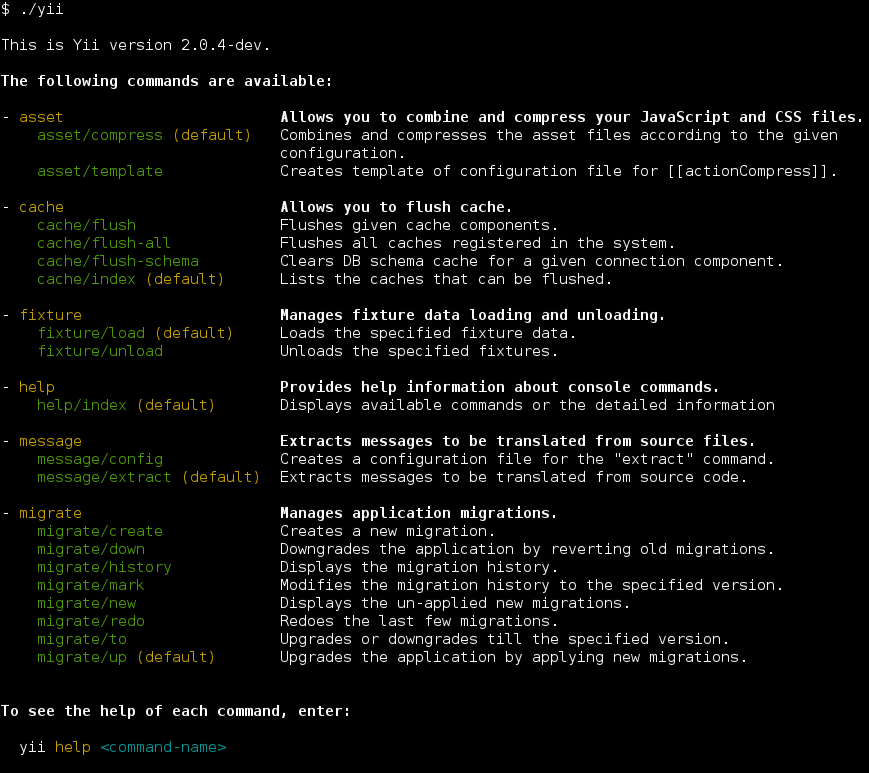
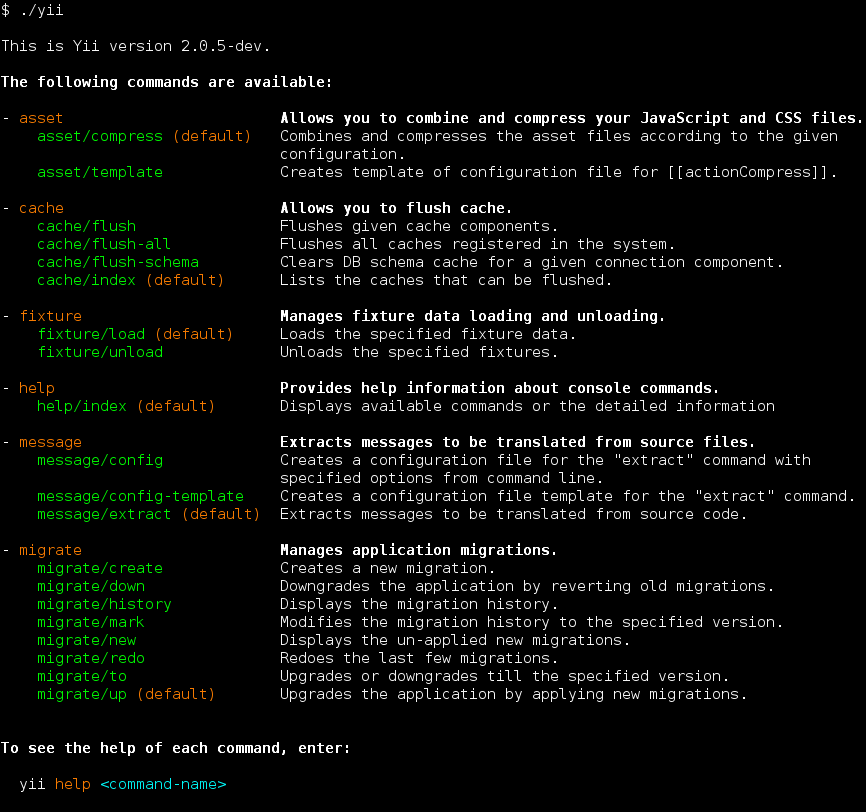
Fixes #8329: Added support of options for `message` console command

diff --git a/framework/views/messageConfig.php b/framework/views/messageConfig.php
@@ -16,8 +16,11 @@ return [
     // messages will be separated from the old (translated) ones.
     'sort' => false,
     // boolean, whether to remove messages that no longer appear in the source code.
-    // Defaults to false, which means each of these messages will be enclosed with a pair of '@@' marks.
+    // Defaults to false, which means these messages will NOT be removed.
     'removeUnused' => false,
+    // boolean, whether to mark messages that no longer appear in the source code.
+    // Defaults to true, which means each of these messages will be enclosed with a pair of '@@' marks.
+    'markUnused' => true,
     // array, list of patterns that specify which files (not directories) should be processed.
     // If empty or not set, all files will be processed.
     // Please refer to "except" for details about the patterns.

diff --git a/framework/messages/config.php b/framework/messages/config.php
@@ -22,6 +22,9 @@ return [
     // boolean, whether to remove messages that no longer appear in the source code.
     // Defaults to false, which means each of these messages will be enclosed with a pair of '@@' marks.
     'removeUnused' => false,
+    // boolean, whether to mark messages that no longer appear in the source code.
+    // Defaults to true, which means each of these messages will be enclosed with a pair of '@@' marks.
+    'markUnused' => true,
     // array, list of patterns that specify which files/directories should NOT be processed.
     // If empty or not set, all files/directories will be processed.
     // A path matches a pattern if it contains the pattern string at its end. For example,

diff --git a/docs/guide/tutorial-i18n.md b/docs/guide/tutorial-i18n.md
@@ -633,10 +633,10 @@ If [[yii\i18n\MissingTranslationEvent::translatedMessage]] is set by the event h
 
 Translations can be stored in [[yii\i18n\PhpMessageSource|php files]], [[yii\i18n\GettextMessageSource|.po files] or to [[yii\i18n\DbMessageSource|database]]. See specific classes for additional options.
 
-First of all you need to create a config file. Decide where you want to store it and then issue the command 
+First of all you need to create a configuration file. Decide where you want to store it and then issue the command 
 
-```bash
-./yii message/config path/to/config.php
+```shell
+./yii message/config-template path/to/config.php
 ```
 
 Open the created file and adjust the parameters to fit your needs. Pay special attention to:
@@ -644,13 +644,26 @@ Open the created file and adjust the parameters to fit your needs. Pay special a
 * `languages`: an array representing what languages your app should be translated to;
 * `messagePath`: path where to store message files, which should match the `i18n`'s `basePath` parameter stated in config.
 
-> Note that aliases are not supported here, they must be real path relative to the config file location
+You may also use './yii message/config' command to dynamically generate configuration file with specified options via cli.
+For example, you can set `languages` and `messagePath` parameters like the following:
 
-Once you're done with the config file you can finally extract your messages with the command
+```shell
+./yii message/config --languages=de,ja --messagePath=messages path/to/config.php
+```
 
-```bash
+To get list of available options execute next command:
+
+```shell
+./yii help message/config
+```
+
+Once you're done with the configuration file you can finally extract your messages with the command:
+
+```shell
 ./yii message path/to/config.php
 ```
+
+Also, you may use options to dynamically change parameters for extraction.
 
 You will then find your files (if you've chosen file based translations) in your `messagePath` directory.
 

diff --git a/docs/internals/translation-workflow.md b/docs/internals/translation-workflow.md
@@ -16,11 +16,11 @@ In order to start with message translation:
    add your language there (remember to keep the list in alphabetical order). The format of language code
    should follow [IETF language tag spec](http://en.wikipedia.org/wiki/IETF_language_tag), for example,
    `ru`, `zh-CN`.
-2. Go to `framework` and run `yii message/extract messages/config.php`.
+2. Go to `framework` and run `./yii message/extract --languages=<your_language>`.
 3. Translate messages in `framework/messages/your_language/yii.php`. Make sure file is saved using UTF-8 encoding.
 4. [Make a pull request](git-workflow.md).
 
-In order to keep your translation up to date you may run `yii message/extract messages/config.php` again. It will
+In order to keep your translation up to date you may run `./yii message/extract --languages=<your_language>` again. It will
 automatically re-extract messages keeping unchanged ones intact.
 
 In the translation file each array element represents the translation (value) of a message (key). If the value is empty,

diff --git a/framework/CHANGELOG.md b/framework/CHANGELOG.md
@@ -45,6 +45,7 @@ Yii Framework 2 Change Log
 - Enh #7566: Improved `\yii\validators\CompareValidator` default messages (slinstj)
 - Enh #7581: Added ability to specify range using anonymous function in `RangeValidator` (RomeroMsk)
 - Enh #8284: Added `\yii\captcha\CaptchaAction::$imageLibrary` property allowing to set image rendering library (AnatolyRugalev)
+- Enh #8329: Added support of options for `message` console command (vchenin)
 - Enh #8613: `yii\widgets\FragmentCache` will not store empty content anymore which fixes some problems related to `yii\filters\PageCache` (kidol)
 - Enh #8649: Added total applied migrations to final report (vernik91)
 - Enh #9282: Improved JSON error handling to support PHP 5.5 error codes (freezy-sk)
